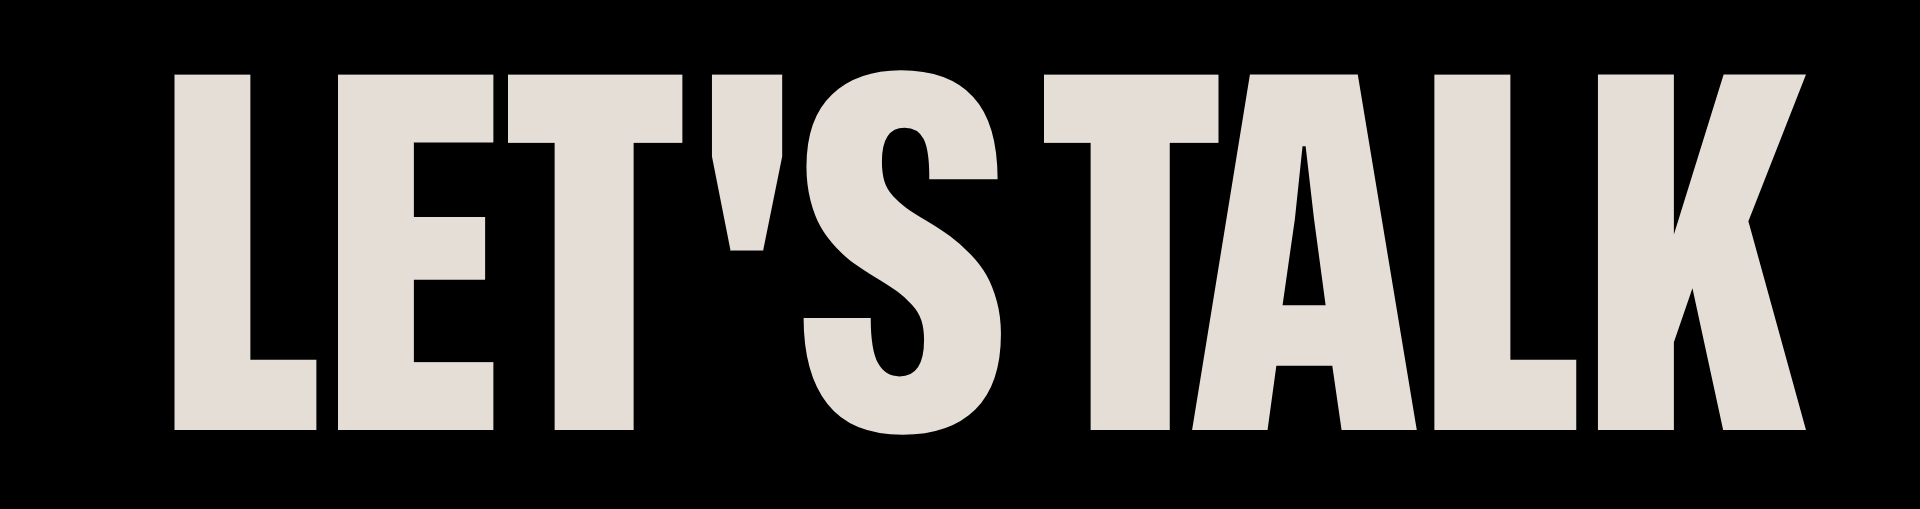
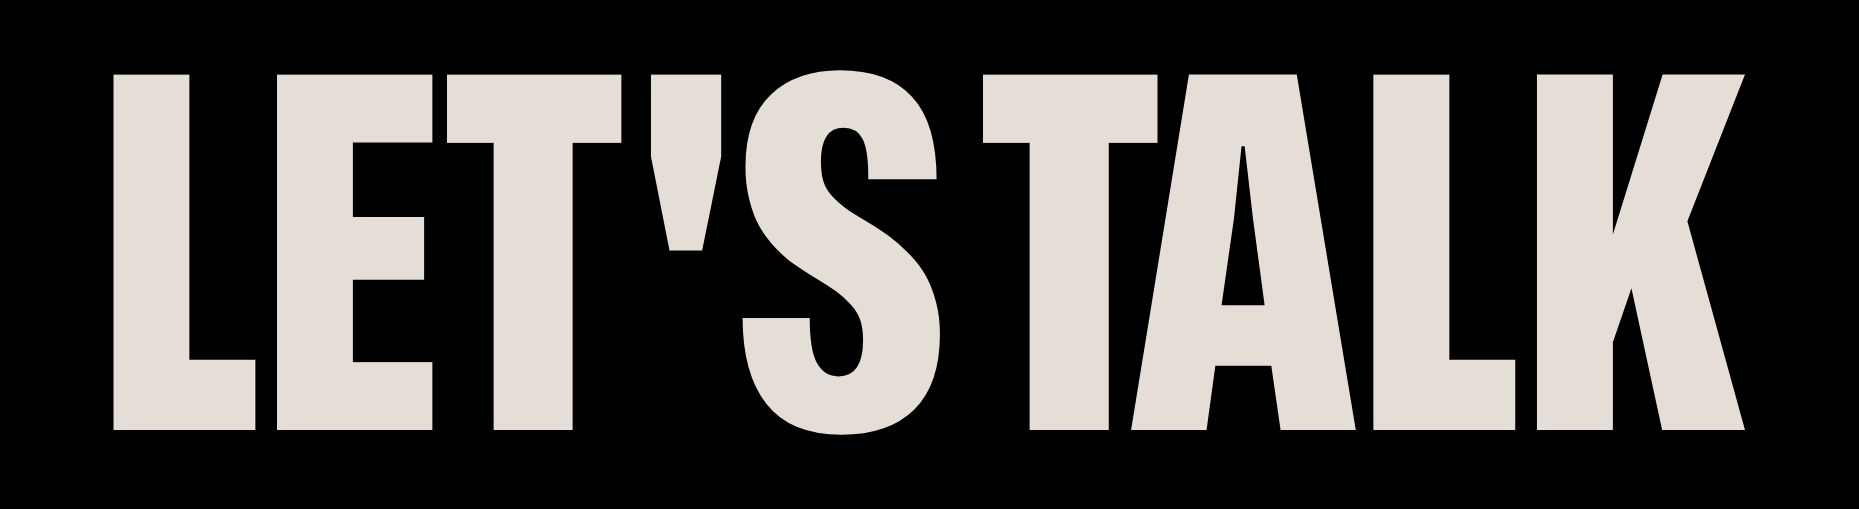
update-3

Changed region(s): [[0.0624, 0.1179, 0.7488, 0.8546], [0.78, 0.1473, 0.936, 0.8546]]

diff --git a/src/components/Contact.tsx b/src/components/Contact.tsx
@@ -1,6 +1,6 @@
 import React, { useEffect, useRef, useState } from "react";
 import { motion } from "framer-motion";
-import { Github, Linkedin, Twitter, Instagram } from "lucide-react";
+import { Github, Linkedin, Facebook, Instagram } from "lucide-react";
 
 const Contact: React.FC = () => {
   const [showArrow, setShowArrow] = useState(false);
@@ -50,10 +50,10 @@ const Contact: React.FC = () => {
         <img
           src="/me/talk.png"
           alt="LET’S TALK"
-          className="w-full md:h-[450px] object-contain object-center"
+          className="w-full h-[200px] md:h-[450px] object-contain object-center"
         />
 
-        <div className="w-full flex flex-col md:flex-row justify-between items-center gap-6 text-sm md:text-base px-6 md:px-33">
+        <div className="w-full flex flex-col md:flex-row justify-between items-center gap-6 text-sm md:text-base px-6 md:px-22">
           <div className="blinker-bold font-semibold text-center md:text-left max-w-md">
             <p className="uppercase">
               Got a question, proposal, project, or want to work together on
@@ -76,21 +76,21 @@ const Contact: React.FC = () => {
               <Github className="w-5 h-5 hover:text-accent transition" />
             </a>
             <a
-              href="https://linkedin.com/in/yourhandle"
+              href="https://www.linkedin.com/in/jayrald-bernales-19a8bb346/"
               target="_blank"
               rel="noopener noreferrer"
             >
               <Linkedin className="w-5 h-5 hover:text-accent transition" />
             </a>
             <a
-              href="https://x.com/yourhandle"
+              href="https://www.facebook.com/jayrald.bernales.3/"
               target="_blank"
               rel="noopener noreferrer"
             >
-              <Twitter className="w-5 h-5 hover:text-accent transition" />
+              <Facebook className="w-5 h-5 hover:text-accent transition" />
             </a>
             <a
-              href="https://instagram.com/yourhandle"
+              href="https://www.instagram.com/jayraalddd/"
               target="_blank"
               rel="noopener noreferrer"
             >
@@ -100,19 +100,9 @@ const Contact: React.FC = () => {
         </div>
       </motion.div>
 
-      <footer className="mt-10 border-t blinker-bold border-neutral-800 py-8 flex justify-between items-center text-xs px-6 md:px-43">
+      <footer className="mt-10 border-t blinker-bold border-neutral-800 py-8 flex justify-between items-center text-xs px-6 md:px-27">
         <p>COPYRIGHT 2025</p>
-        <p>
-          DESIGN & DEVELOPMENT BY{" "}
-          <a
-            href="https://sankalp-jaiswal-portfolio.vercel.app/"
-            target="_blank"
-            rel="noopener noreferrer"
-            className="font-bold underline hover:text-accent"
-          >
-            Jayrald Bernales
-          </a>
-        </p>
+        <p>All rights reserved.</p>
       </footer>
       {/* Floating Arrow Up Button (only visible when Contact is in view) */}
       {showArrow && (

diff --git a/src/components/Hero.tsx b/src/components/Hero.tsx
@@ -8,7 +8,7 @@ const Hero: React.FC = () => {
     <div className="relative">
       <section
         id="home"
-        className="min-h-[100vh] flex flex-col-reverse md:flex-row justify-center items-center md:items-stretch text-center md:text-left pb-12 md:pb-0 md:pl-32 lg:pl-52 relative overflow-hidden bg-main"
+        className="min-h-[100vh] flex flex-col-reverse top-20 md:top-0 md:flex-row justify-center items-center md:items-stretch text-center md:text-left pb-12 md:pb-0 md:pl-32 lg:pl-52 relative overflow-hidden bg-main"
       >
         <div className="flex-1 flex flex-col justify-center items-center md:items-start mb-12 md:mb-0">
           <motion.h1
